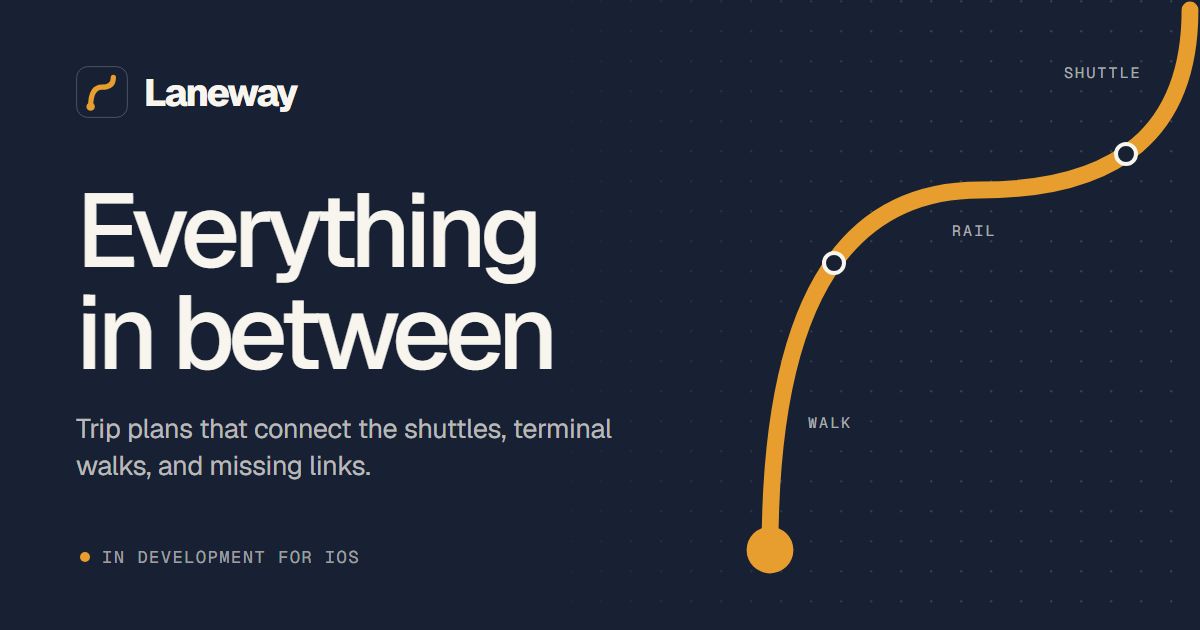
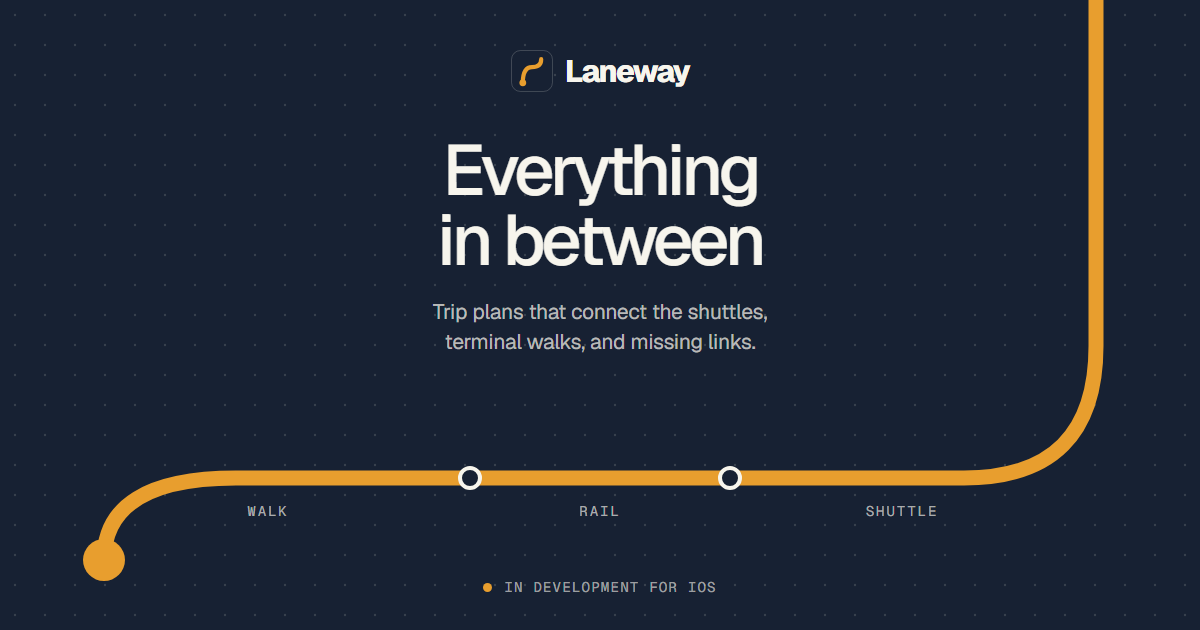
Lay the Link Card Out for the iMessage Crop
iMessage shows a portrait slice from the middle of the 1200x630 card, so
the lockup, headline, description and status line now sit in the centre
400px. The route runs flat under them and climbs both flanks. Labels fade
and the loop's last frame matches its first.

diff --git a/assets/social/Laneway Link Preview.html b/assets/social/Laneway Link Preview.html
@@ -1,4 +1,8 @@
 <!doctype html><html><head><meta charset="utf-8">
+<!-- The link preview card, 1200x630. iMessage shows only a portrait slice out
+     of the middle of it, about 420px wide, so everything that has to be read
+     sits in the centre column (x 400 to 800) and the flanks only carry the
+     route's two vertical legs. Check both the full card and that slice. -->
 <style>
 @font-face{font-family:"Geist";src:url("../../fonts/geist-var.woff2") format("woff2");font-weight:100 900}
 @font-face{font-family:"Geist Mono";src:url("../../fonts/geist-mono-var.woff2") format("woff2");font-weight:100 900}
@@ -7,74 +11,72 @@ html,body{width:1200px;height:630px;overflow:hidden}
 body{background:#172133;color:#F7F5ED;font-family:"Geist",sans-serif;position:relative;-webkit-font-smoothing:antialiased}
 .grid{position:absolute;inset:0}
 .art{position:absolute;inset:0}
-.copy{position:absolute;left:76px;top:0;bottom:0;width:640px;display:flex;flex-direction:column;justify-content:space-between;padding:66px 0 62px}
-.lockup{display:flex;align-items:center;gap:16px}
-.lockup svg{width:52px;height:52px;display:block}
-.lockup b{font-weight:800;font-size:38px;letter-spacing:-.055em}
-h1{font-weight:500;font-size:104px;line-height:.98;letter-spacing:-.058em;margin-bottom:26px}
-.sub{font-size:27px;line-height:1.38;color:rgba(247,245,237,.72);max-width:21.5em;letter-spacing:-.012em}
-.foot{font-family:"Geist Mono",monospace;font-size:17px;letter-spacing:.09em;text-transform:uppercase;color:rgba(247,245,237,.62);display:flex;align-items:center;gap:12px}
-.foot i{width:10px;height:10px;border-radius:50%;background:#E89E2E;display:block;margin-left:4px}
-.lab{font-family:"Geist Mono",monospace;font-size:15px;letter-spacing:.14em;fill:rgba(247,245,237,.66)}
+.copy{position:absolute;left:400px;width:400px;top:0;padding:50px 22px 0;text-align:center}
+.lockup{display:inline-flex;align-items:center;gap:12px;margin-bottom:44px}
+.lockup svg{width:42px;height:42px;display:block}
+.lockup b{font-weight:800;font-size:31px;letter-spacing:-.055em}
+h1{font-weight:500;font-size:71px;line-height:.98;letter-spacing:-.058em;margin-bottom:22px}
+.sub{font-size:21px;line-height:1.4;color:rgba(247,245,237,.72);letter-spacing:-.012em}
+.foot{position:absolute;left:400px;width:400px;bottom:34px;font-family:"Geist Mono",monospace;font-size:14px;letter-spacing:.09em;text-transform:uppercase;color:rgba(247,245,237,.62);display:flex;align-items:center;justify-content:center;gap:12px}
+.foot i{width:9px;height:9px;border-radius:50%;background:#E89E2E;display:block}
+.lab{font-family:"Geist Mono",monospace;font-size:14px;letter-spacing:.14em;fill:rgba(247,245,237,.66)}
 </style></head><body>
-<svg class="grid" viewBox="0 0 1200 630"><defs>
-<linearGradient id="fade" x1="0" x2="1"><stop offset=".42" stop-color="#172133"/><stop offset=".78" stop-color="#172133" stop-opacity="0"/></linearGradient>
-</defs><g id="dots" fill="#F7F5ED"></g><rect width="1200" height="630" fill="url(#fade)"/></svg>
+<svg class="grid" viewBox="0 0 1200 630"><g id="dots" fill="#F7F5ED"></g></svg>
 <svg class="art" viewBox="0 0 1200 630">
-  <!-- the mark's own curve, M9 25 Q9 13 16 13 Q23 13 23 7, scaled 30x -->
-  <g transform="translate(500 -200) scale(30)">
-    <path d="M9 25 Q9 13 16 13 Q23 13 23 7" stroke="#E89E2E" stroke-width=".56" fill="none" stroke-linecap="round"/>
-    <circle cx="9" cy="25" r=".78" fill="#E89E2E"/>
-  </g>
+  <path id="route" d="M104 560 Q104 478 236 478 L964 478 Q1096 478 1096 346 L1096 -30" stroke="#E89E2E" stroke-width="15" fill="none" stroke-linecap="round"/>
+  <circle cx="104" cy="560" r="21" fill="#E89E2E"/>
   <g fill="#172133" stroke="#F7F5ED" stroke-width="4">
-    <circle id="n1" cx="834" cy="263" r="10"/><circle id="n2" cx="1126" cy="154" r="10"/>
+    <circle id="n1" cx="470" cy="478" r="10"/><circle id="n2" cx="730" cy="478" r="10"/>
   </g>
-  <text class="lab" id="l1" x="808" y="428">WALK</text>
-  <text class="lab" id="l2" x="952" y="236">RAIL</text>
-  <text class="lab" id="l3" x="1064" y="78">SHUTTLE</text>
+  <text class="lab" id="l1" x="268" y="516" text-anchor="middle">WALK</text>
+  <text class="lab" id="l2" x="600" y="516" text-anchor="middle">RAIL</text>
+  <text class="lab" id="l3" x="902" y="516" text-anchor="middle">SHUTTLE</text>
   <!-- the traveller only exists in the animated card; the still never calls seek() -->
   <g id="trav" style="display:none"><circle r="19" fill="#F7F5ED" opacity=".16"/><circle r="10.5" fill="#F7F5ED"/></g>
 </svg>
 <div class="copy">
   <div class="lockup"><svg viewBox="0 0 32 32"><rect x=".4" y=".4" width="31.2" height="31.2" rx="6.8" fill="#172133" stroke="#F7F5ED" stroke-opacity=".3" stroke-width=".5"/><path d="M9 25 Q9 13 16 13 Q23 13 23 7" stroke="#E89E2E" stroke-width="3.2" fill="none" stroke-linecap="round"/><circle cx="9" cy="25" r="2.6" fill="#E89E2E"/></svg><b>Laneway</b></div>
-  <div><h1>Everything<br>in between</h1><p class="sub">Trip plans that connect the shuttles, terminal walks, and missing links.</p></div>
-  <div class="foot"><i></i>In development for iOS</div>
+  <h1>Everything<br>in between</h1>
+  <p class="sub">Trip plans that connect the shuttles, terminal walks, and missing links.</p>
 </div>
+<div class="foot"><i></i>In development for iOS</div>
 <script>
 /* seek(t), t from 0 to 1 across one loop. Called frame by frame to record the
-   animated card. Every frame is a complete card, because most link previews
-   only ever show the first one. */
+   animated card. Every frame is a complete card, and nothing may differ
+   between t=1 and t=0, or the loop pops. */
 (function(){
   /* The background grid is real circles, not a pattern, so each dot can
-     breathe on its own phase. At rest they sit at the same .15 the pattern had. */
+     breathe on its own phase. */
   var dots=[],dg=document.getElementById("dots"),NS="http://www.w3.org/2000/svg";
   for(var gy=0;gy<21;gy++)for(var gx=0;gx<40;gx++){
     var c=document.createElementNS(NS,"circle");
-    c.setAttribute("cx",gx*30+1.2);c.setAttribute("cy",gy*30+1.2);c.setAttribute("r",1.2);c.setAttribute("opacity",.15);
+    c.setAttribute("cx",gx*30+15);c.setAttribute("cy",gy*30+15);c.setAttribute("r",1.2);c.setAttribute("opacity",.15);
     dg.appendChild(c);dots.push({el:c,ph:(gx*30+gy*30)/1100});
   }
   var statusDot=document.querySelector(".foot i");
-  var path=document.querySelector(".art path"),len=path.getTotalLength();
+  var path=document.getElementById("route"),len=path.getTotalLength();
   var trav=document.getElementById("trav");
-  function at(l){var q=path.getPointAtLength(l);return {x:500+30*q.x,y:-200+30*q.y};}
-  function nearest(cx,cy){var best=0,bd=1e9;for(var i=0;i<=600;i++){var q=at(len*i/600),d=Math.hypot(q.x-cx,q.y-cy);if(d<bd){bd=d;best=i/600;}}return best;}
-  var f1=nearest(834,263),f2=nearest(1126,154);
+  function at(l){return path.getPointAtLength(l);}
+  function nearest(cx,cy){var best=0,bd=1e9;for(var i=0;i<=1200;i++){var q=at(len*i/1200),d=Math.hypot(q.x-cx,q.y-cy);if(d<bd){bd=d;best=i/1200;}}return best;}
+  var f1=nearest(470,478),f2=nearest(730,478);
   function ease(u){return u<.5?2*u*u:1-Math.pow(-2*u+2,2)/2;}
   function clamp(v){return Math.max(0,Math.min(1,v));}
   window.seek=function(t){
     var RUN=.74,u=ease(clamp(t/RUN)),q=at(len*u);
-    /* Nothing may differ between t=1 and t=0, or the loop pops. The traveller
-       grows out of the origin dot and fades at the far end; the nodes ease
-       back to hollow well before the wrap. */
+    /* The traveller grows out of the origin dot and fades at the far end; the
+       nodes ease back to hollow well before the wrap. */
     var out=clamp((t-RUN)/.08),back=clamp((t-.8)/.16),grow=clamp(t/.07);
     trav.style.display="";
     trav.setAttribute("transform","translate("+q.x.toFixed(2)+" "+q.y.toFixed(2)+") scale("+(grow*(2-grow)).toFixed(3)+")");
     trav.style.opacity=(1-out).toFixed(3);
     function node(id,f){var on=clamp((u-f)/.03)*(1-back),el=document.getElementById(id);
-      el.setAttribute("fill","rgb("+Math.round(23+224*on)+","+Math.round(33+212*on)+","+Math.round(51+186*on)+")");el.setAttribute("r",(10+3*Math.sin(Math.PI*clamp((u-f)/.09))).toFixed(2));}
+      el.setAttribute("fill","rgb("+Math.round(23+224*on)+","+Math.round(33+212*on)+","+Math.round(51+186*on)+")");
+      el.setAttribute("r",(10+3*Math.sin(Math.PI*clamp((u-f)/.09))).toFixed(2));}
     node("n1",f1);node("n2",f2);
-    function lab(id,a,b){var on=(u>=a&&u<b&&t<RUN)?1:0;document.getElementById(id).style.fill=on?"#F7F5ED":"";}
-    lab("l1",0,f1);lab("l2",f1,f2);lab("l3",f2,1.01);
+    /* Labels fade, never snap, and all three are at rest across the wrap. */
+    function lab(id,a,b){var k=clamp((u-a)/.04)*(1-clamp((u-b)/.04))*(1-out);
+      document.getElementById(id).style.fill="rgba(247,245,237,"+(.66+.34*k).toFixed(3)+")";}
+    lab("l1",.02,f1);lab("l2",f1,f2);lab("l3",f2,1.2);
     /* A slow diagonal swell across the grid, one cycle per loop so it joins. */
     for(var i=0;i<dots.length;i++){
       var w=.5+.5*Math.sin(2*Math.PI*(t-dots[i].ph)),k=w*w*w;

diff --git a/JOURNAL.md b/JOURNAL.md
@@ -2,7 +2,7 @@
 
 ### Baron's Work
 
-*Time worked: 0h 19m (3:22 PM to 3:41 PM)*
+*Time worked: 0h 24m (3:22 PM to 3:46 PM)*
 
 ## Timeline
 
@@ -83,6 +83,26 @@ between the last frame and the first, so the wrap popped.
   The lesson for any seek-driven loop: diff the last frame against the
   first before calling it a loop.
 
+**3:46 PM - iMessage crops the card to a portrait slice, so the card was laid
+out again.** Baron sent a screenshot of the link in a real iMessage thread.
+Two things in it corrected this entry. The GIF plays in iMessage, which the
+Open list below had wrong. And iMessage does not show the 1200x630 card: it
+shows a tall slice out of the middle, about 420px of the 1200, so the
+bubble read "ning / ween" with the lockup and the route's origin cut off.
+
+- Everything that has to be read now sits in the centre 400px: the lockup,
+  the headline at 71px, the description on two lines, and the status line,
+  all centred.
+- The route is no longer the mark's curve scaled up. It is a path in the
+  same rounded language that fits both shapes: up from an origin dot in the
+  left flank, flat across the card under the text, and up the right flank
+  off the top. The slice shows the flat run with both nodes, the RAIL label
+  and the traveller passing; the full card shows the whole S.
+- Labels fade now, and all three are at rest across the wrap, so the WALK
+  flick at the loop point is gone.
+- The source page carries a comment at the top saying to check the centre
+  slice as well as the full card.
+
 ## Decisions
 
 - The board is still labelled. The foot under it reads `Simulated route
@@ -93,9 +113,8 @@ between the last frame and the first, so the wrap popped.
 
 ## Open
 
-- Most apps will show the card as a still. iMessage, WhatsApp and X take the
-  first frame of a GIF; Discord plays it. That is why frame one is a whole
-  card.
+- iMessage plays the GIF and crops it to a portrait slice, both seen in a
+  real thread. What WhatsApp, X and Discord do with it is not checked.
 - Apps cache previews. A link pasted somewhere before today can keep its
   old bare look until that app refetches it.
 - `legal.html` still describes itself as "we need to fill this out, before

diff --git a/assets/README.md b/assets/README.md
@@ -21,7 +21,7 @@ Files are named in title case with spaces, e.g. `Laneway Mark Dark 512.png`. In 
 - `wordmark/` - horizontal lockups (on ink, on cream, transparent ink, transparent cream) and stacked lockups.
 - `avatar/` - 1024px full-bleed profile pictures, safe for a circle crop.
 - `favicon/` - `Favicon.svg` plus PNG at 16/32/48/180/192/512.
-- `social/` - the 1200x630 card that shared links show. `Laneway Link Preview.gif` is the `og:image` on every page: a 3.6 second loop of a dot riding the route, over a grid that slowly breathes, with a pulse on the status dot. `Laneway Link Preview.png` is the still, used as `twitter:image`. Both are recorded from `Laneway Link Preview.html`: the still is a plain screenshot at 1200x630, and the loop is 72 screenshots at `seek(i/72)`, joined at 20 fps. Every frame is a complete card, because most apps only show the first one.
+- `social/` - the 1200x630 card that shared links show. `Laneway Link Preview.gif` is the `og:image` on every page: a 3.6 second loop of a dot riding the route, over a grid that slowly breathes, with a pulse on the status dot. `Laneway Link Preview.png` is the still, used as `twitter:image`. Both are recorded from `Laneway Link Preview.html`: the still is a plain screenshot at 1200x630, and the loop is 72 screenshots at `seek(i/72)`, joined at 20 fps. iMessage shows only a portrait slice from the middle of the card, about 420px wide, so anything that must be read stays in the centre 400px.
 - `connections/` - three generated, web-sized sample Osaka photos for the illustrative Connections concept. They are not customer photos.
 
 ## Usage
